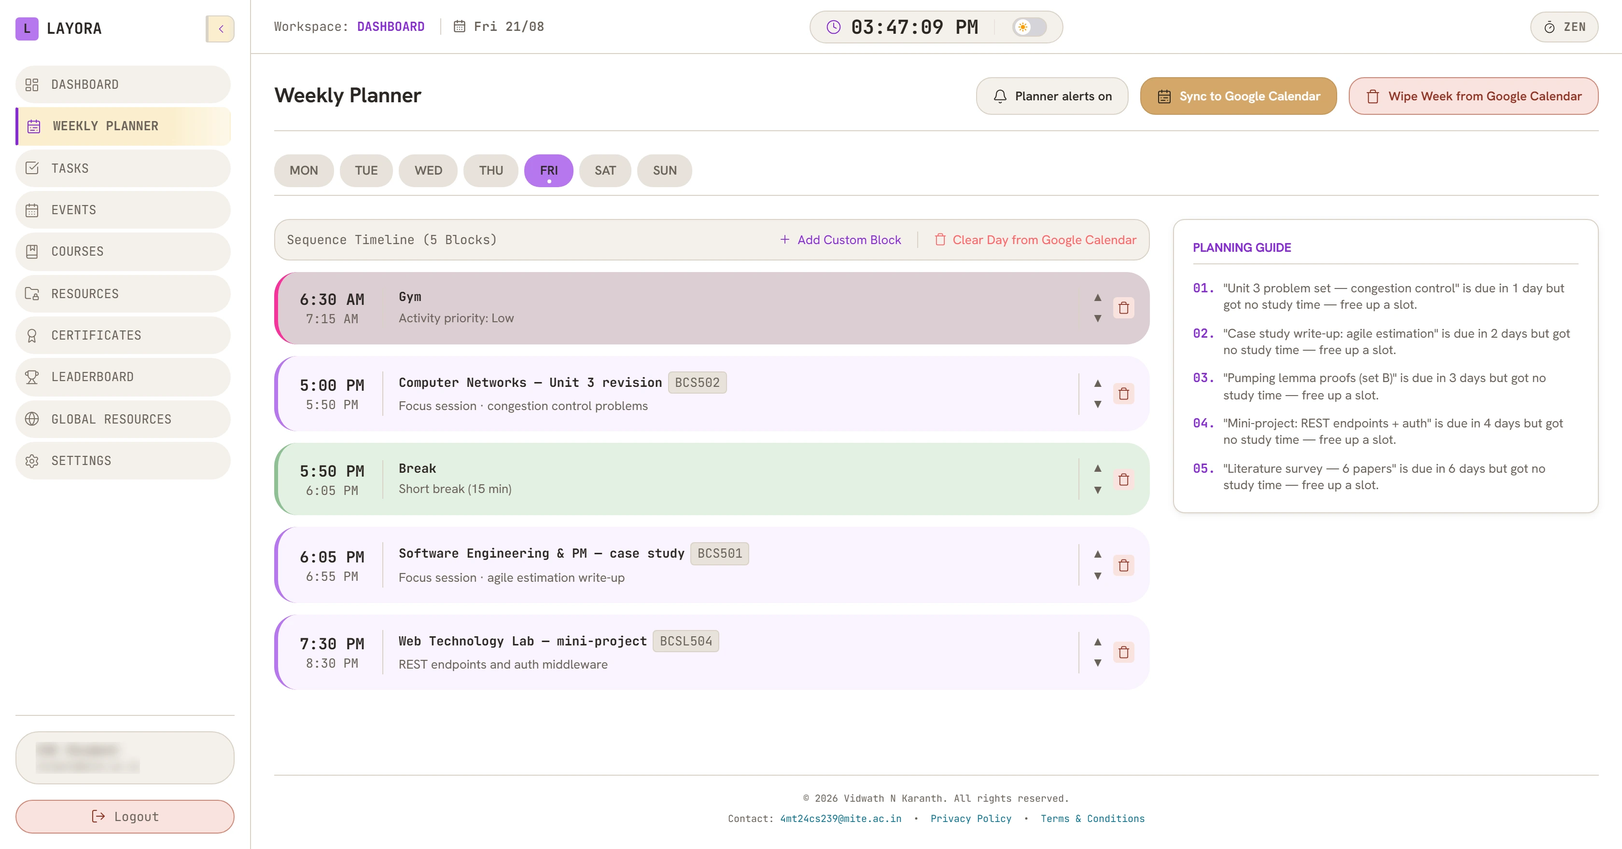
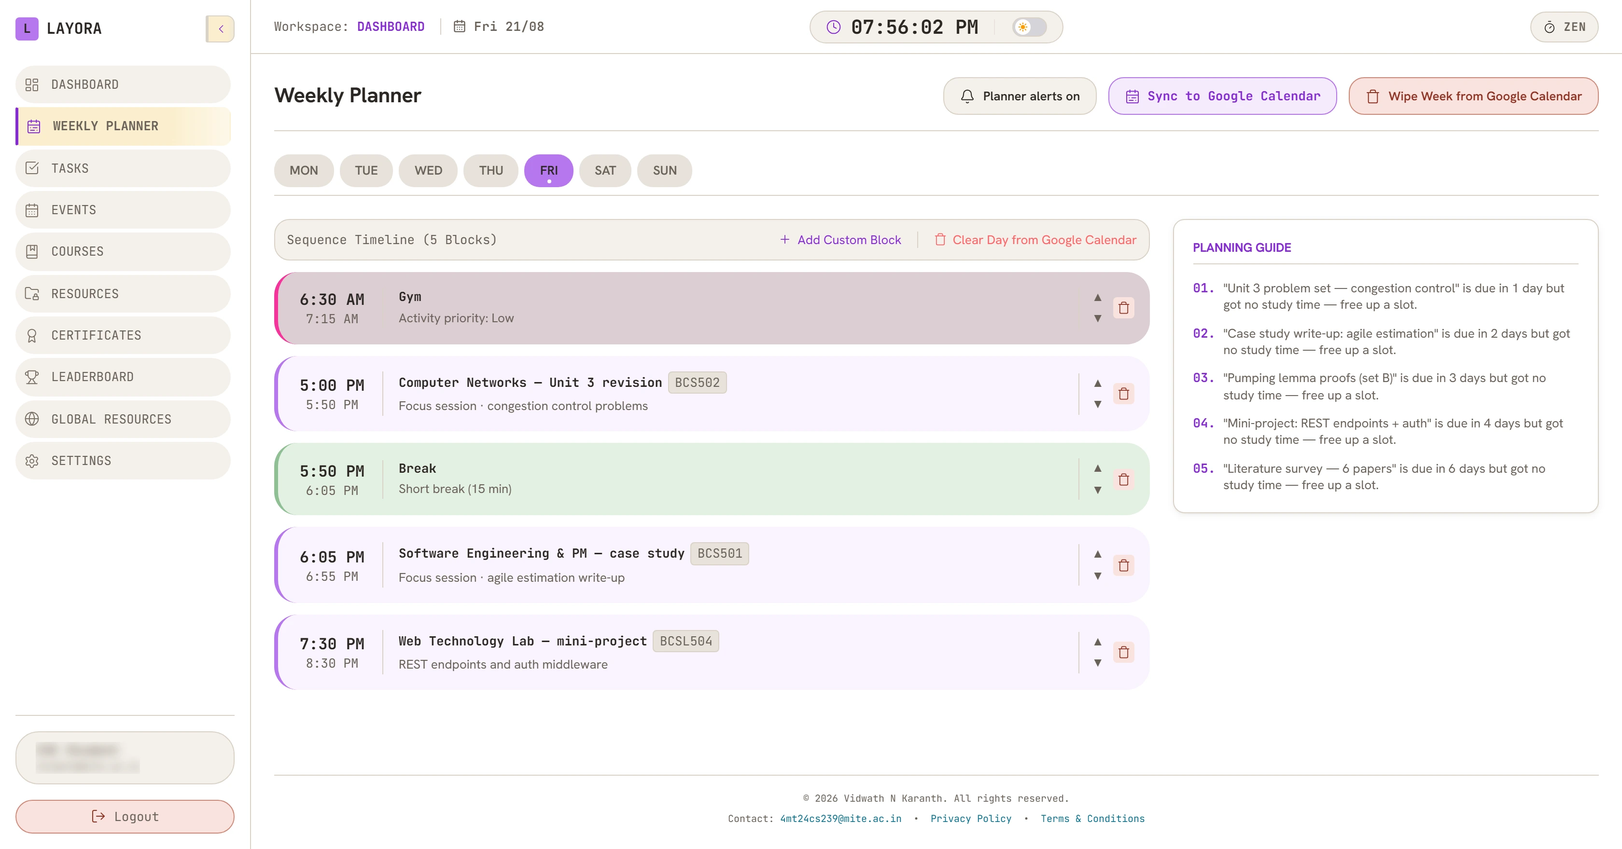
feat: update UI components for improved accessibility and consistency across onboarding and planner pages

Changed region(s): [[0.5938, 0.0938, 0.8438, 0.1562], [0.5312, 0.0312, 0.5625, 0.0625]]

diff --git a/src/app/page.tsx b/src/app/page.tsx
@@ -13,60 +13,21 @@ import {
 } from 'framer-motion';
 
 /* ────────────────────────────────────────────────────────────────
-   The page is a Friday.
+   One feature per screen.
 
-   Layora is a timetable before it is anything else, so the scroll is
-   a day: every feature arrives at the hour a student would actually
-   reach for it, and the left rail is the planner's own time column.
-   That rail is the one loud idea here — everything around it is a
-   hairline, a mono label and a screenshot of the real workspace.
+   The tour is a pinned stage: the screenshot holds still while the
+   copy for each feature scrolls past it, and the left rail is a
+   running index of where you are. Zen mode goes first and takes the
+   page to black with it — everything after that is a hairline, a
+   mono label and a screenshot of the real workspace.
    ──────────────────────────────────────────────────────────────── */
 
 const INK = '#0A0B0D';
 const SLAB = '#14161A';
 
-/** The scroll story. `hour` is the rail readout, not decoration — it is
- *  when the block actually sits in the generated timetable. */
+/** The tour, in the order a student meets the product. */
 const STEPS = [
   {
-    hour: '06:30',
-    label: 'Weekly planner',
-    title: 'The week builds itself around your classes.',
-    body: 'Add your subjects once — code, credits, how hard they are. Layora fills the gaps between lectures with focus sessions sized to your Pomodoro rhythm, and calls out any deadline it could not find time for.',
-    src: '/images/landing/planner.webp',
-    alt: 'The weekly planner with Friday selected: a 5:00 PM Computer Networks revision block, a break, and two more study sessions.',
-    facts: ['Sized to your focus timer', 'Reorder or delete any block', 'Regenerates when subjects change'],
-  },
-  {
-    hour: '08:45',
-    label: 'Google Calendar',
-    title: 'It lands in the calendar you already check.',
-    body: 'One button writes the week into Google Calendar in your own time zone. Change a block and sync again — Layora clears the copies it wrote before, so a fortnight of edits never becomes a fortnight of duplicates.',
-    src: '/images/landing/sync-detail.webp',
-    alt: 'The planner action bar: planner alerts on, sync to Google Calendar, and wipe week from Google Calendar.',
-    panel: 'calendar',
-    facts: ['Writes with an IANA time zone', 'Wipe a day or the whole week', 'Course deadlines sync too'],
-  },
-  {
-    hour: '11:00',
-    label: 'Events',
-    title: 'Department notices and your own reminders, one calendar.',
-    body: 'Assessments, project reviews and placement drives are posted by the department to your year. Your own reminders sit on the same grid in a different colour, and repeat weekly if you tell them to.',
-    src: '/images/landing/events.webp',
-    alt: 'The events month grid for August with department events in amber and personal reminders in violet.',
-    facts: ['Posted to your year only', 'Daily, weekly or monthly repeats', 'Push notification on the day'],
-  },
-  {
-    hour: '17:30',
-    label: 'Tasks',
-    title: 'Every deadline, with the time it actually took.',
-    body: 'Give a task an estimate and start the timer when you sit down. The planner uses what you log to decide how much room the next one needs.',
-    src: '/images/landing/tasks.webp',
-    alt: 'The tasks page showing pending, in-progress and completed work with estimates and logged minutes.',
-    facts: ['Estimate vs. logged minutes', 'Grouped by subject', 'Feeds the next timetable'],
-  },
-  {
-    hour: '20:00',
     label: 'Zen mode',
     title: 'One black screen and a timer.',
     body: 'Everything else gets out of the way — sidebar, header, notifications, the lot. Space pauses, Esc leaves, and the session counts towards the streak on your dashboard.',
@@ -76,7 +37,39 @@ const STEPS = [
     facts: ['Space to pause · Esc to leave', 'Focus and break lengths are yours', 'Logs to your streak'],
   },
   {
-    hour: '22:00',
+    label: 'Weekly planner',
+    title: 'The week builds itself around your classes.',
+    body: 'Add your subjects once — code, credits, how hard they are. Layora fills the gaps between lectures with focus sessions sized to your Pomodoro rhythm, and calls out any deadline it could not find time for.',
+    src: '/images/landing/planner.webp',
+    alt: 'The weekly planner with Friday selected: a Computer Networks revision block, a break, and two more study sessions.',
+    facts: ['Sized to your focus timer', 'Reorder or delete any block', 'Regenerates when subjects change'],
+  },
+  {
+    label: 'Google Calendar',
+    title: 'It lands in the calendar you already check.',
+    body: 'One button writes the week into Google Calendar in your own time zone. Change a block and sync again — Layora clears the copies it wrote before, so a fortnight of edits never becomes a fortnight of duplicates.',
+    src: '/images/landing/sync-detail.webp',
+    alt: 'The planner action bar: planner alerts on, sync to Google Calendar, and wipe week from Google Calendar.',
+    panel: 'calendar',
+    facts: ['Writes with an IANA time zone', 'Wipe a day or the whole week', 'Course deadlines sync too'],
+  },
+  {
+    label: 'Tasks',
+    title: 'Every deadline, with the time it actually took.',
+    body: 'Give a task an estimate and start the timer when you sit down. The planner uses what you log to decide how much room the next one needs.',
+    src: '/images/landing/tasks.webp',
+    alt: 'The tasks page showing pending, in-progress and completed work with estimates and logged minutes.',
+    facts: ['Estimate vs. logged minutes', 'Grouped by subject', 'Feeds the next timetable'],
+  },
+  {
+    label: 'Events',
+    title: 'Department notices and your own reminders, one calendar.',
+    body: 'Assessments, project reviews and placement drives are posted by the department to your year. Your own reminders sit on the same grid in a different colour, and repeat weekly if you tell them to.',
+    src: '/images/landing/events.webp',
+    alt: 'The events month grid for August with department events in amber and personal reminders in violet.',
+    facts: ['Posted to your year only', 'Daily, weekly or monthly repeats', 'Push notification on the day'],
+  },
+  {
     label: 'Leaderboard',
     title: 'Your coding week, ranked inside your year.',
     body: 'Connect LeetCode, GitHub and CodeChef. Every night at 10 PM Layora reads the public profiles, scores solves and contributions, and ranks you against your own year group — nobody else.',
@@ -192,7 +185,7 @@ function Nav({ onSignIn }: { onSignIn: () => void }) {
         </a>
 
         <nav className="hidden items-center gap-8 font-jetbrains text-[11px] uppercase tracking-[0.15em] text-white/45 md:flex">
-          <a href="#day" className="transition hover:text-white">The day</a>
+          <a href="#features" className="transition hover:text-white">Features</a>
           <a href="#workspace" className="transition hover:text-white">Workspace</a>
           <a href="#access" className="transition hover:text-white">Access</a>
           <a href="/privacy" className="transition hover:text-white">Privacy</a>
@@ -249,10 +242,10 @@ function Hero({ onSignIn }: { onSignIn: () => void }) {
             <ArrowRight className="h-4 w-4 transition-transform group-hover:translate-x-0.5" strokeWidth={2} />
           </button>
           <a
-            href="#day"
+            href="#features"
             className="flex items-center gap-2 rounded-xl border border-white/12 px-6 py-3.5 text-sm font-semibold text-white/70 transition hover:border-white/25 hover:text-white focus-visible:outline focus-visible:outline-2 focus-visible:outline-offset-2 focus-visible:outline-[#2E95FF]"
           >
-            Walk through a Friday
+            See what is inside
             <ArrowDown className="h-4 w-4" strokeWidth={2} />
           </a>
         </motion.div>
@@ -323,14 +316,13 @@ function Cinema() {
     setActive(i);
   });
 
-  // Zen mode is the one step that takes the page with it: the ground goes to
-  // true black as it arrives and comes back afterwards.
-  const zen = STEPS.findIndex((s) => 'black' in s && s.black);
+  // Zen mode opens the tour and takes the page with it: the stage starts at
+  // true black and only lifts to the page ground as the planner arrives.
   const band = 1 / STEPS.length;
   const bg = useTransform(
     scrollYProgress,
-    [(zen - 0.6) * band, zen * band + band * 0.25, (zen + 1) * band - band * 0.1, (zen + 1) * band + band * 0.35],
-    [INK, '#000000', '#000000', INK],
+    [0, band * 0.62, band * 0.96],
+    ['#000000', '#000000', INK],
   );
 
   const fill = useTransform(scrollYProgress, [0, 1], ['0%', '100%']);
@@ -341,7 +333,7 @@ function Cinema() {
 
       <div className="relative mx-auto max-w-[96rem] px-5 sm:px-8">
         {/* ── Desktop: rail · copy · pinned media ── */}
-        <div className="hidden lg:grid lg:grid-cols-[92px_minmax(0,23rem)_minmax(0,1fr)] lg:gap-x-14">
+        <div className="hidden lg:grid lg:grid-cols-[152px_minmax(0,22rem)_minmax(0,1fr)] lg:gap-x-12">
           {/* Rail */}
           <div>
             <div className="sticky top-0 flex h-screen flex-col py-24">
@@ -350,19 +342,19 @@ function Cinema() {
                 <motion.div className="absolute left-[3px] top-0 w-px bg-[#C56BF5]" style={{ height: fill }} aria-hidden />
                 <ol className="flex flex-1 flex-col justify-between">
                   {STEPS.map((s, i) => (
-                    <li key={s.hour} className="relative pl-6">
+                    <li key={s.label} className="relative pl-6">
                       <span
-                        className={`absolute left-0 top-[7px] block h-[7px] w-[7px] -translate-x-[2px] rounded-full transition-colors duration-500 ${
+                        className={`absolute left-0 top-[6px] block h-[7px] w-[7px] -translate-x-[2px] rounded-full transition-colors duration-500 ${
                           i === active ? 'bg-[#C56BF5]' : i < active ? 'bg-white/35' : 'bg-white/15'
                         }`}
                         aria-hidden
                       />
                       <span
-                        className={`font-jetbrains text-[12px] tabular-nums tracking-wider transition-colors duration-500 ${
+                        className={`font-jetbrains text-[10px] uppercase leading-[1.5] tracking-[0.12em] transition-colors duration-500 ${
                           i === active ? 'font-bold text-white' : 'text-white/30'
                         }`}
                       >
-                        {s.hour}
+                        {s.label}
                       </span>
                     </li>
                   ))}
@@ -381,7 +373,7 @@ function Cinema() {
                   viewport={{ once: true, margin: '-35% 0px -35% 0px' }}
                   transition={{ duration: 0.6, ease: [0.16, 1, 0.3, 1] }}
                 >
-                  <Eyebrow tone={i === 4 ? 'blue' : 'violet'}>{s.label}</Eyebrow>
+                  <Eyebrow tone={'black' in s ? 'blue' : 'violet'}>{s.label}</Eyebrow>
                   <h3 className="mt-5 font-hanken text-3xl font-extrabold leading-[1.1] tracking-[-0.03em] text-white xl:text-[2.6rem]">
                     {s.title}
                   </h3>
@@ -435,10 +427,9 @@ function Cinema() {
               viewport={{ once: true, margin: '-10%' }}
               transition={{ duration: 0.6, ease: [0.16, 1, 0.3, 1] }}
             >
-              <div className="flex items-center gap-3">
-                <span className="font-jetbrains text-[12px] font-bold tabular-nums text-white/80">{s.hour}</span>
+              <div className="flex items-center gap-4">
+                <Eyebrow tone={'black' in s ? 'blue' : 'violet'}>{s.label}</Eyebrow>
                 <span className="h-px flex-1 bg-white/10" aria-hidden />
-                <Eyebrow>{s.label}</Eyebrow>
               </div>
               <h3 className="mt-5 font-hanken text-[1.75rem] font-extrabold leading-[1.12] tracking-[-0.03em] text-white">
                 {s.title}
@@ -750,11 +741,11 @@ export default function RootPage() {
         <Nav onSignIn={goToLogin} />
         <Hero onSignIn={goToLogin} />
 
-        <section id="day" className="px-5 pb-6 pt-28 sm:px-8 sm:pt-36">
+        <section id="features" className="px-5 pb-6 pt-28 sm:px-8 sm:pt-36">
           <div className="mx-auto max-w-7xl">
-            <Eyebrow>A day in the workspace</Eyebrow>
+            <Eyebrow>Inside the workspace</Eyebrow>
             <h2 className="mt-5 max-w-2xl font-hanken text-3xl font-extrabold leading-[1.1] tracking-[-0.03em] text-white sm:text-[2.6rem]">
-              Six hours of a Friday, in the order they happen.
+              Six features, one screen at a time.
             </h2>
           </div>
         </section>

diff --git a/src/components/OnboardingModal.tsx b/src/components/OnboardingModal.tsx
@@ -262,7 +262,7 @@ export default function OnboardingModal() {
         {/* Progress Bar */}
         <div className="w-full h-[2px] bg-surface-container">
           <div 
-            className="h-full bg-gradient-to-r from-purple-500 to-cyan-400 transition-all duration-300"
+            className="h-full bg-primary transition-all duration-300"
             style={{ width: `${(step / totalSteps) * 100}%` }}
           ></div>
         </div>
@@ -450,7 +450,7 @@ export default function OnboardingModal() {
                           <div>
                             <div className="flex items-center gap-2">
                               <span className="font-mono font-bold text-xs text-on-surface">{sub.name}</span>
-                              <span className="text-[9px] font-mono bg-primary-fixed text-primary px-2 py-0.5 rounded border border-primary">{sub.code}</span>
+                              <span className="text-[9px] font-mono bg-primary-fixed text-on-surface px-2 py-0.5 rounded border border-primary/50">{sub.code}</span>
                             </div>
                             <div className="flex gap-4 text-[9px] text-outline mt-1 font-mono">
                               <span>Credits: {sub.credits}</span>
@@ -818,7 +818,7 @@ export default function OnboardingModal() {
                               <span>Weekly Target: {c.weeklyGoal}h</span>
                             </div>
                             <div className="w-full bg-surface-container h-1 rounded-full overflow-hidden mt-1.5">
-                              <div className="bg-cyan-500 h-full" style={{ width: `${c.progress}%` }}></div>
+                              <div className="bg-primary h-full" style={{ width: `${c.progress}%` }}></div>
                             </div>
                           </div>
                           <div className="flex items-center gap-3">
@@ -886,14 +886,14 @@ export default function OnboardingModal() {
                 setStepErrors({});
                 setStep(Math.min(totalSteps, step + 1));
               }}
-              className="flex items-center gap-1 bg-gradient-to-r from-purple-600 to-blue-500 hover:from-purple-500 hover:to-blue-400 text-black px-5 py-2 rounded-xl text-xs font-mono font-bold active:scale-95 transition cursor-pointer shadow-lg shadow-purple-500/10"
+              className="flex items-center gap-1 bg-primary hover:opacity-90 text-on-primary px-5 py-2 rounded-xl text-xs font-mono font-bold active:scale-95 transition cursor-pointer"
             >
               Next <ChevronRight className="w-4 h-4" />
             </button>
           ) : (
             <button
               onClick={handleSave}
-              className="flex items-center gap-1.5 bg-gradient-to-r from-purple-600 to-emerald-500 hover:from-purple-500 hover:to-emerald-400 text-on-surface px-6 py-2.5 rounded-xl text-xs font-mono font-bold active:scale-95 transition cursor-pointer shadow-lg shadow-purple-500/20"
+              className="flex items-center gap-1.5 bg-gradient-to-r from-primary to-emerald-500 hover:opacity-90 text-on-surface px-6 py-2.5 rounded-xl text-xs font-mono font-bold active:scale-95 transition cursor-pointer shadow-lg shadow-purple-500/20"
             >
               Finish <CheckCircle className="w-4 h-4" />
             </button>

diff --git a/src/app/globals.css b/src/app/globals.css
@@ -20,14 +20,14 @@ html {
   --color-inverse-on-surface: #16181C;
   --color-outline: rgba(142, 142, 147, 0.25);
   --color-outline-variant: rgba(142, 142, 147, 0.14);
-  --color-surface-tint: #2E95FF;
+  --color-surface-tint: var(--cyber-primary);
 
-  /* ── Primary: Apple Blue ── */
+  /* ── Primary: the student's chosen accent ── */
   --color-primary: var(--cyber-primary);
   --color-on-primary: #000000;
-  --color-primary-container: rgba(0, 122, 255, 0.15);
-  --color-on-primary-container: #2E95FF;
-  --color-inverse-primary: #0055CC;
+  --color-primary-container: color-mix(in srgb, var(--cyber-primary) 18%, transparent);
+  --color-on-primary-container: var(--cyber-primary);
+  --color-inverse-primary: var(--cyber-primary);
 
   /* ── Secondary: Apple Grey ── */
   --color-secondary: var(--cyber-secondary);
@@ -51,13 +51,18 @@ html {
   --color-background: #16181C;
   --color-on-background: #F2F2F7;
 
-  --color-primary-fixed: #2E95FF;
-  --color-primary-fixed-dim: #0055CC;
+  /* Block fills, not brand colour: a solid #2E95FF panel behind white text was
+     the loudest thing on the planner. A 15% wash of the accent over the surface
+     keeps the colour coding and puts the label back at ~12:1. */
+  --color-primary-fixed: color-mix(in srgb, var(--cyber-primary) 15%, #1A1D21);
+  --color-primary-fixed-dim: color-mix(in srgb, var(--cyber-primary) 30%, #1A1D21);
   --color-on-primary-fixed: #FFFFFF;
   --color-on-primary-fixed-variant: #003A99;
 
-  --color-secondary-fixed: #8E8E93;
-  --color-secondary-fixed-dim: #636366;
+  /* Class blocks — a neutral slab, so they read as "not yours to move" next
+     to the accent-washed study blocks. Mid-grey held white text at 2.9:1. */
+  --color-secondary-fixed: #262A31;
+  --color-secondary-fixed-dim: #30353D;
   --color-on-secondary-fixed: #FFFFFF;
   --color-on-secondary-fixed-variant: #3A3A3C;
 
@@ -326,27 +331,6 @@ html.light-mode[data-theme="emerald"] {
 .light-mode [class*="shadow-[#00F0FF]"],
 .light-mode [class*="shadow-[0_0_10px_#00F0FF]"] {
   box-shadow: 0 0 10px rgba(var(--l-accent-rgb), 0.35) !important;
-}
-
-/* ── Hard-coded purple gradient buttons (onboarding, setup modal) ──
-   These carry Tailwind's purple-600 (#9333EA), the one dark purple no theme
-   token reaches, so light mode lifts the purple stop to the same lilac the
-   accent now uses and warms the far stop to match. Scoped to `button` so the
-   courses page's `peer-checked:from-purple-600` toggle keeps its off state,
-   and set on background-image so it also out-ranks the `hover:from-*`
-   utilities — the :hover pairs below put that feedback back. */
-.light-mode button[class*="from-purple-600"][class*="to-blue-500"] {
-  background-image: linear-gradient(to right, #B676ED, #5FA8F5) !important;
-}
-.light-mode button[class*="from-purple-600"][class*="to-blue-500"]:hover {
-  background-image: linear-gradient(to right, #A353E9, #3F97F0) !important;
-}
-
-.light-mode button[class*="from-purple-600"][class*="to-emerald-500"] {
-  background-image: linear-gradient(to right, #B676ED, #4FC08A) !important;
-}
-.light-mode button[class*="from-purple-600"][class*="to-emerald-500"]:hover {
-  background-image: linear-gradient(to right, #A353E9, #34B47C) !important;
 }
 
 /* ── Certificate category chips ──

diff --git a/src/app/onboarding/page.tsx b/src/app/onboarding/page.tsx
@@ -450,7 +450,7 @@ export default function OnboardingPage() {
                           <div>
                             <div className="flex items-center gap-2">
                               <span className="font-mono font-bold text-sm text-on-surface">{sub.name}</span>
-                              <span className="text-[10px] font-mono bg-primary-fixed text-primary px-2 py-0.5 rounded border border-primary">{sub.code}</span>
+                              <span className="text-[10px] font-mono bg-primary-fixed text-on-surface px-2 py-0.5 rounded border border-primary/50">{sub.code}</span>
                             </div>
                             <div className="flex gap-4 text-[10px] text-outline mt-1 font-mono">
                               <span>Credits: {sub.credits}</span>
@@ -820,7 +820,7 @@ export default function OnboardingPage() {
                             </div>
                             {/* Simple Progress Bar */}
                             <div className="w-full bg-surface-container h-1 rounded-full overflow-hidden mt-2">
-                              <div className="bg-cyan-500 h-full" style={{ width: `${c.progress}%` }}></div>
+                              <div className="bg-primary h-full" style={{ width: `${c.progress}%` }}></div>
                             </div>
                           </div>
                           <div className="flex items-center gap-3">
@@ -888,14 +888,14 @@ export default function OnboardingPage() {
                   setStepErrors({});
                   setStep(Math.min(totalSteps, step + 1));
                 }}
-                className="flex items-center gap-1 bg-gradient-to-r from-purple-600 to-blue-500 hover:from-purple-500 hover:to-blue-400 text-black px-5 py-2 rounded-xl text-xs font-mono font-bold active:scale-95 transition cursor-pointer shadow-lg shadow-purple-500/10"
+                className="flex items-center gap-1 bg-primary hover:opacity-90 text-on-primary px-5 py-2 rounded-xl text-xs font-mono font-bold active:scale-95 transition cursor-pointer"
               >
                 Next <ChevronRight className="w-4 h-4" />
               </button>
             ) : (
               <button
                 onClick={handleSaveAndRedirect}
-                className="flex items-center gap-1.5 bg-gradient-to-r from-purple-600 to-emerald-500 hover:from-purple-500 hover:to-emerald-400 text-on-surface px-6 py-2.5 rounded-xl text-xs font-mono font-bold active:scale-95 transition cursor-pointer shadow-lg shadow-purple-500/20"
+                className="flex items-center gap-1.5 bg-gradient-to-r from-primary to-emerald-500 hover:opacity-90 text-on-surface px-6 py-2.5 rounded-xl text-xs font-mono font-bold active:scale-95 transition cursor-pointer shadow-lg shadow-purple-500/20"
               >
                 Complete Onboarding <ShieldCheck className="w-4 h-4" />
               </button>

diff --git a/src/app/dashboard/planner/page.tsx b/src/app/dashboard/planner/page.tsx
@@ -255,17 +255,16 @@ export default function PlannerPage() {
           <button
             onClick={handleGoogleSync}
             disabled={syncingCalendar || store.timetable.length === 0}
-            className="disabled:opacity-40 rounded-lg px-4 py-2.5 text-xs font-semibold flex items-center gap-2 active:scale-95 transition cursor-pointer"
-            style={{ backgroundColor: '#d4a76a', color: '#ffffff', border: '1px solid #c4975a' }}
+            className="disabled:opacity-40 rounded-lg px-4 py-2.5 text-xs font-mono font-bold flex items-center gap-2 active:scale-95 transition cursor-pointer border border-primary/40 bg-primary/10 hover:bg-primary/20 text-primary"
           >
             {syncingCalendar ? (
               <>
-                <RefreshCw className="w-4 h-4 animate-spin text-white" strokeWidth={1.5} />
+                <RefreshCw className="w-4 h-4 animate-spin" strokeWidth={1.5} />
                 Syncing Calendar...
               </>
             ) : (
               <>
-                <CalendarRange className="w-4 h-4 text-white" strokeWidth={1.5} />
+                <CalendarRange className="w-4 h-4" strokeWidth={1.5} />
                 Sync to Google Calendar
               </>
             )}

diff --git a/src/app/dashboard/courses/page.tsx b/src/app/dashboard/courses/page.tsx
@@ -467,7 +467,7 @@ export default function CoursesPage() {
                         onChange={(e) => setReminderEnabled(e.target.checked)}
                         className="sr-only peer"
                       />
-                      <div className="w-8 h-4.5 bg-surface-container-high rounded-full peer peer-checked:after:translate-x-full peer-checked:after:border-white after:content-[''] after:absolute after:top-[2px] after:left-[2px] after:bg-outline after:border-outline-variant after:border after:rounded-full after:h-3.5 after:w-3.5 after:transition-all peer-checked:bg-gradient-to-r peer-checked:from-purple-600 peer-checked:to-blue-500 peer-checked:after:bg-on-primary"></div>
+                      <div className="w-8 h-4.5 bg-surface-container-high rounded-full peer peer-checked:after:translate-x-full peer-checked:after:border-white after:content-[''] after:absolute after:top-[2px] after:left-[2px] after:bg-outline after:border-outline-variant after:border after:rounded-full after:h-3.5 after:w-3.5 after:transition-all peer-checked:bg-primary peer-checked:after:bg-on-primary"></div>
                     </label>
                   </div>
                   {reminderEnabled && (
